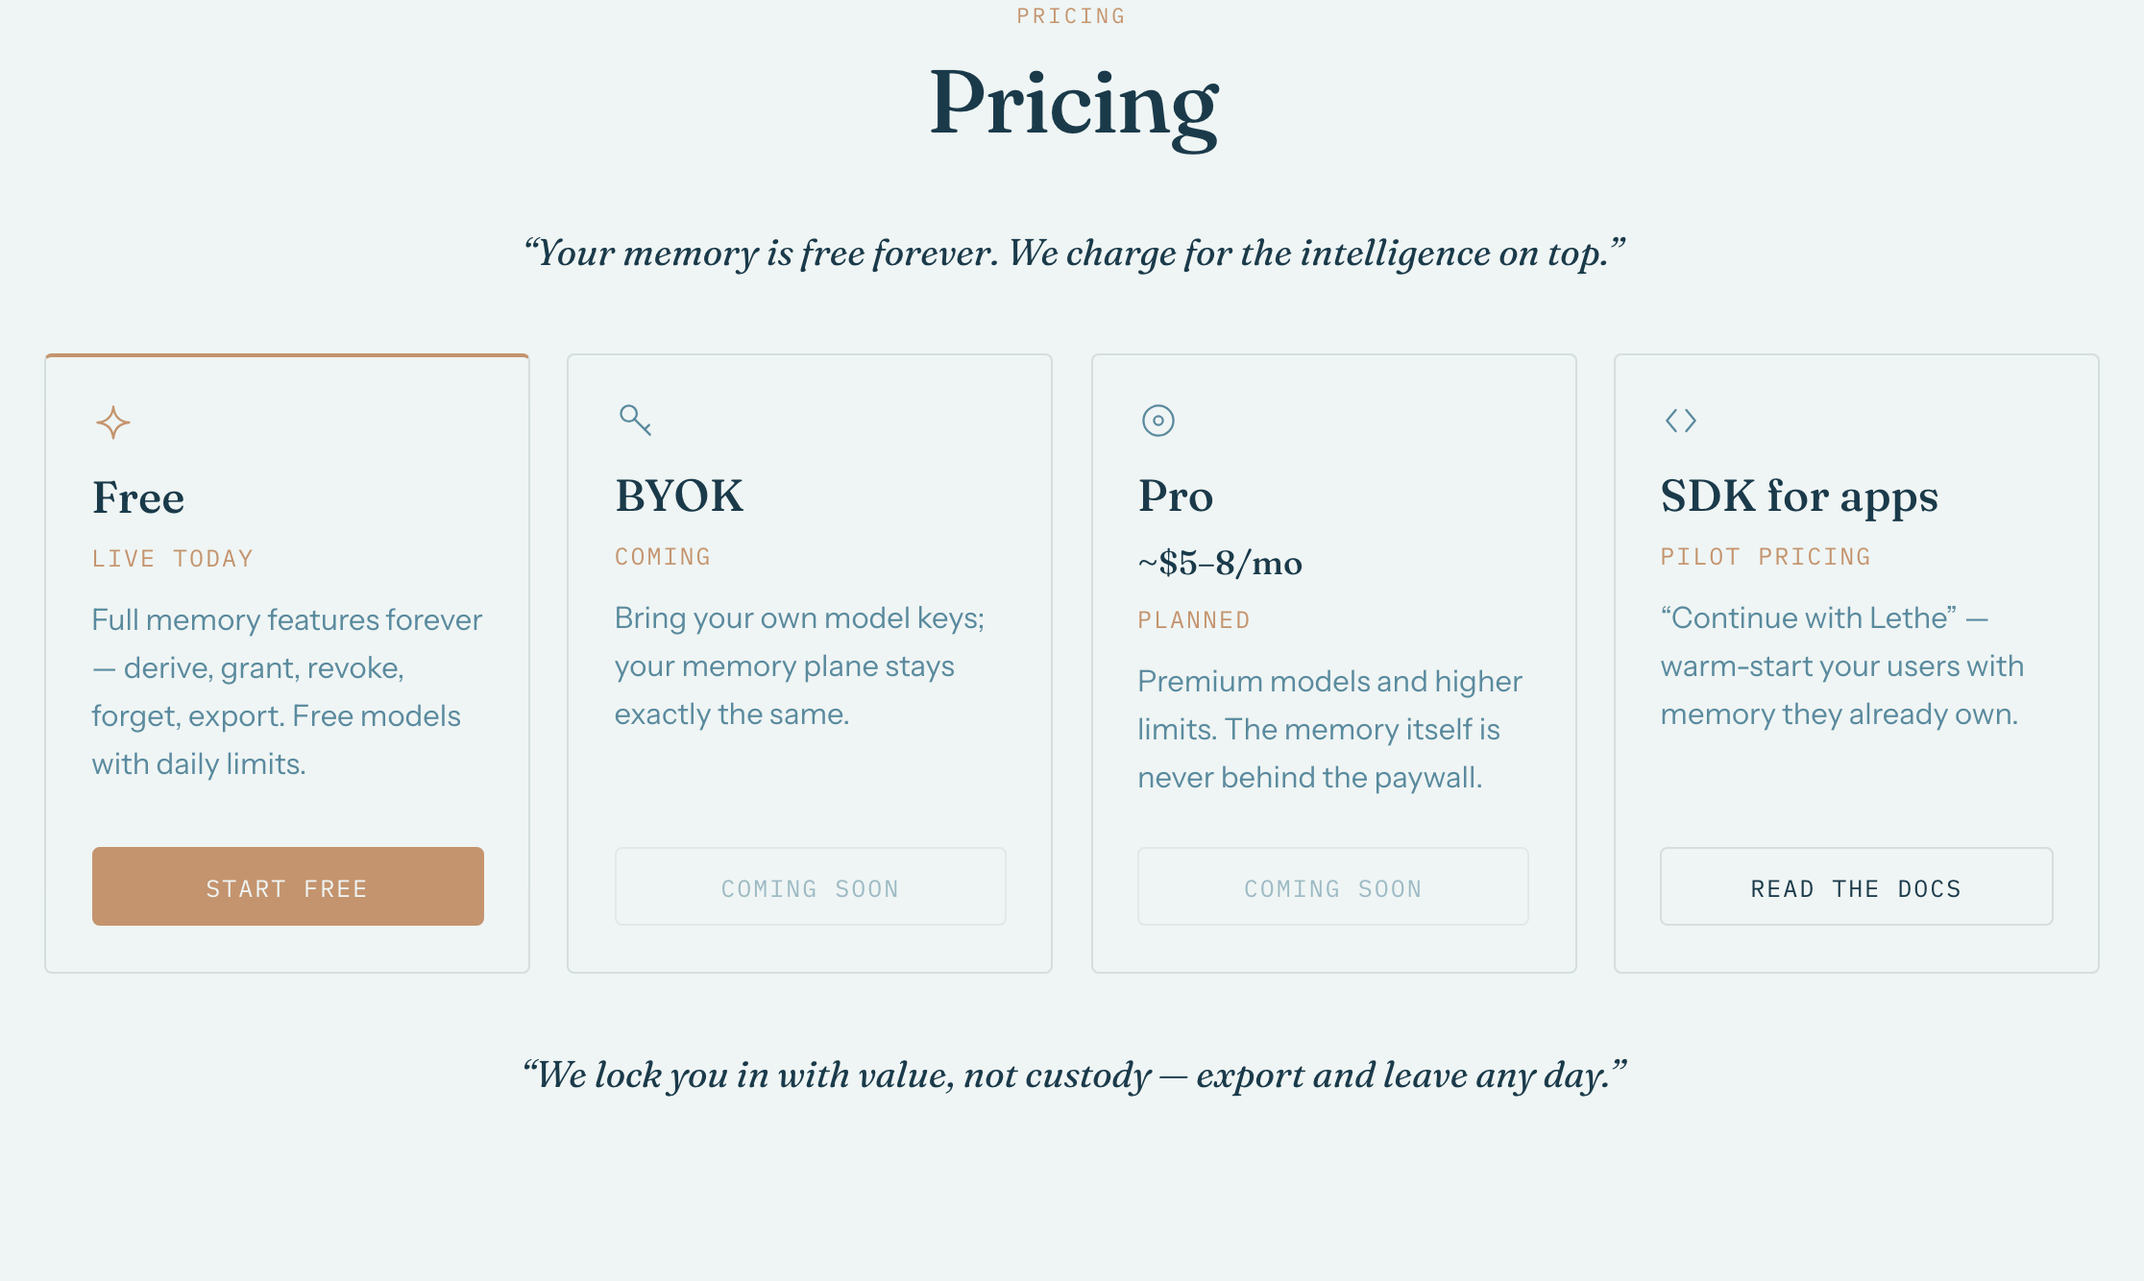
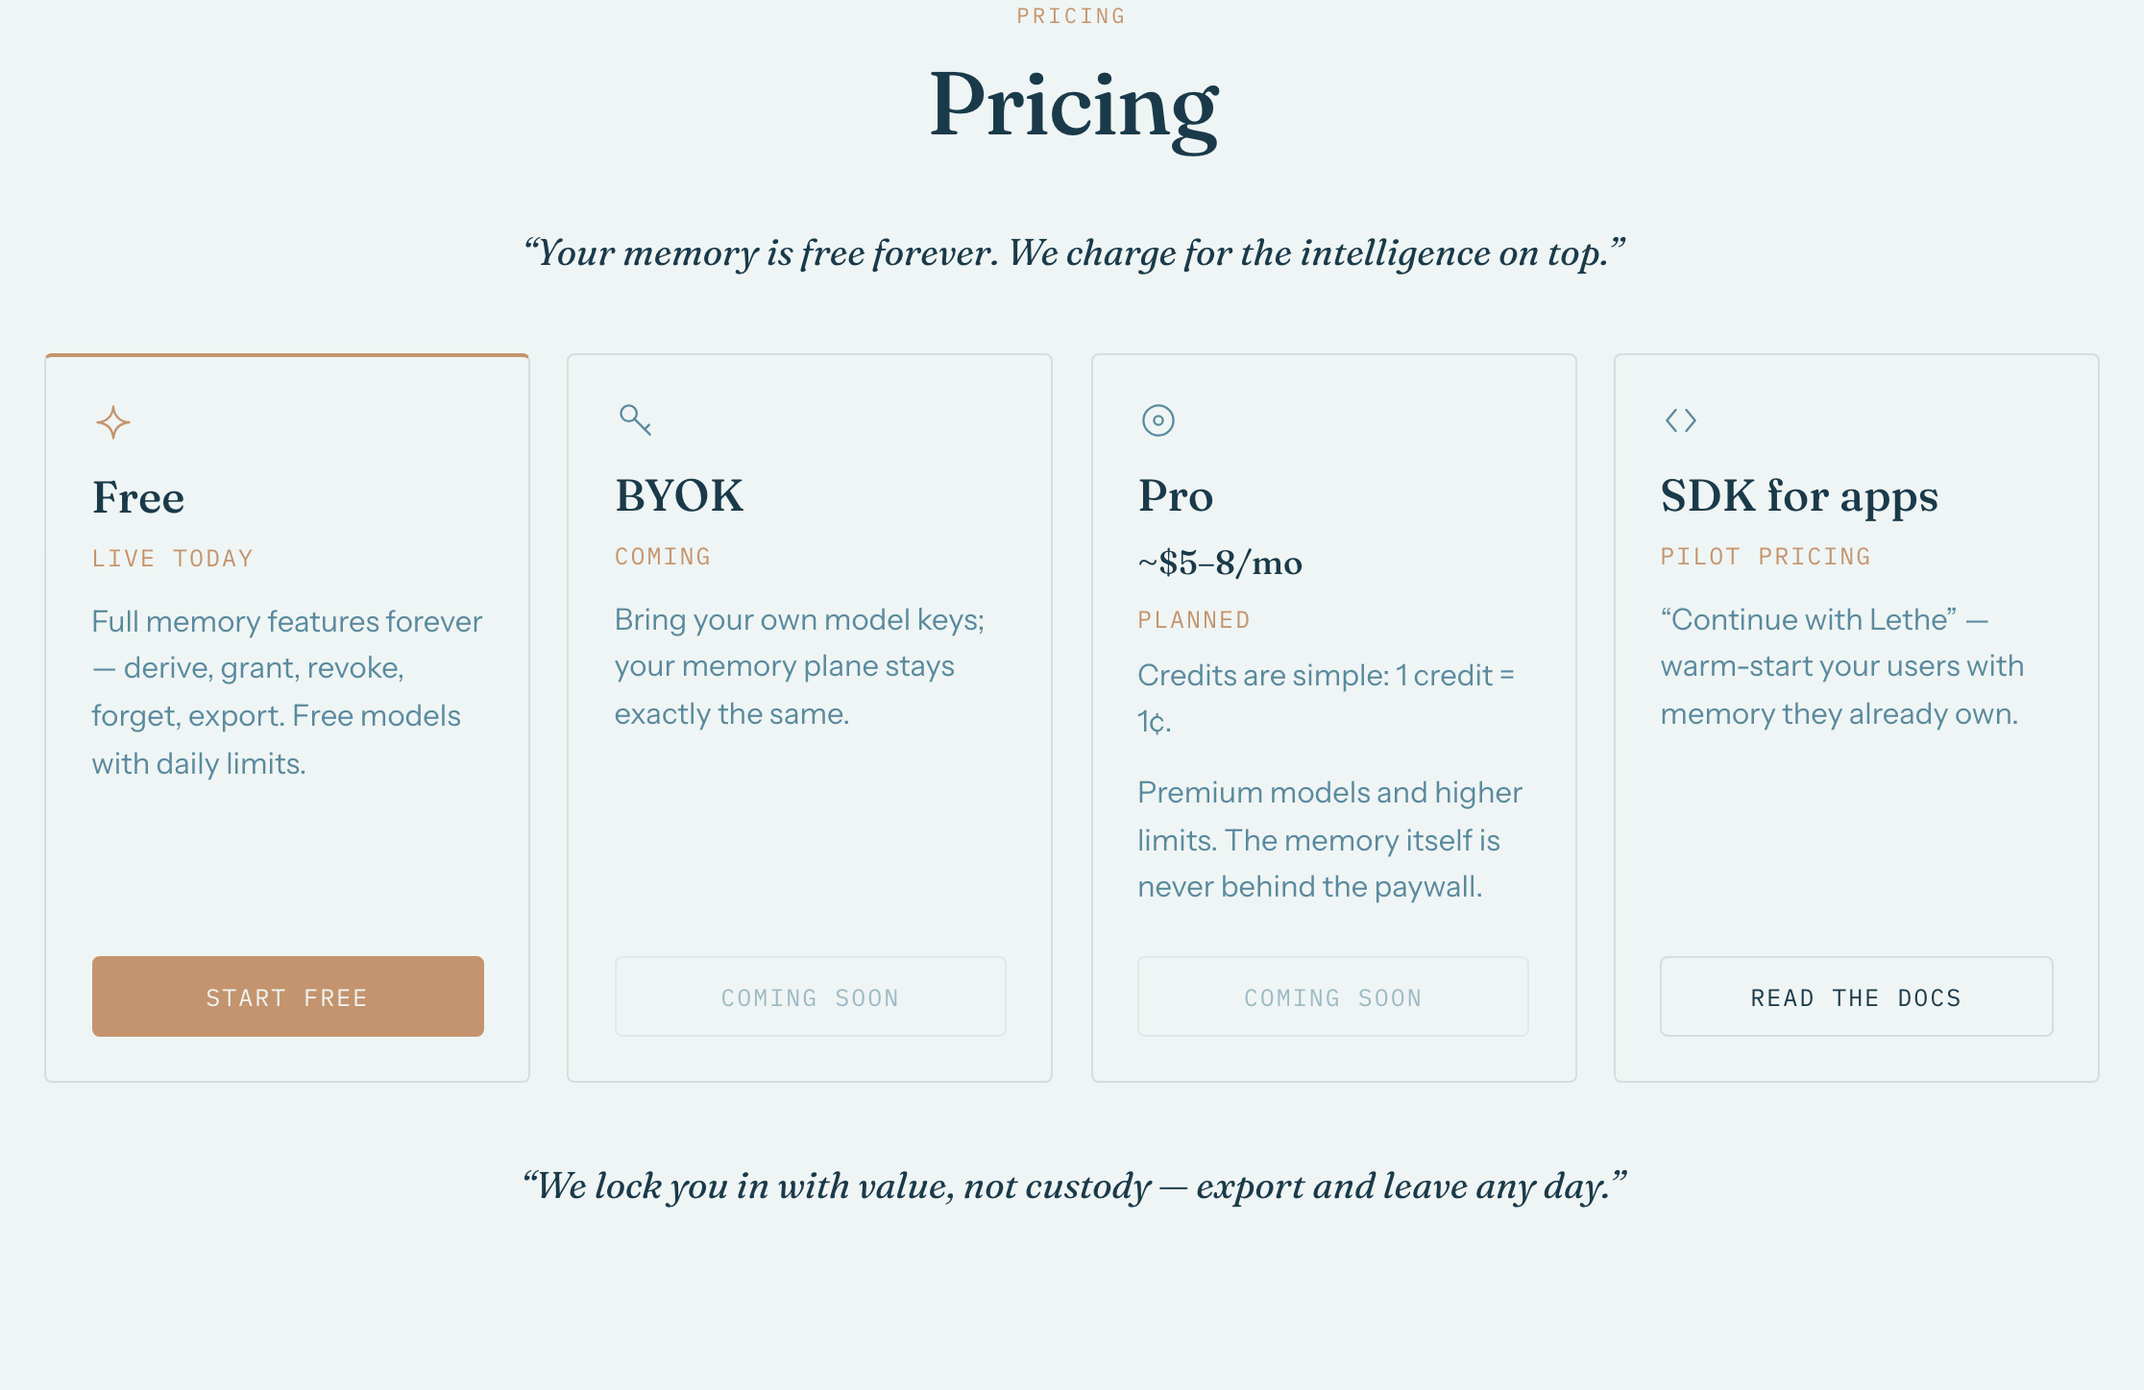
Block 14 (full): rebuild "The loop", Pro credit line, comparison row, stablecoin
Presentation only; product freeze + honesty rule intact. Completes the full
Block 14 brief atop the earlier commit.

P2 The loop: replace unreadable 3-up thumbnails with large vertically-stacked
frames (alternating sides), each with in-brand callouts (Coral dot + leader +
mono chip) on the key moment — selector, rail, verify link, import/export,
briefing, revoke. Captions verbatim; mobile drops callouts to a label list
under the frame (no 390 overflow).

P3 Pricing: add Pro credit line "Credits are simple: 1 credit = 1¢." under the
prominent ~$5-8/mo price (no dup). CTAs/glyphs unchanged.

P5 Comparison: add "Model lock-in" row (tied to platform / vendor cloud /
switch models, memory follows).

P7 Roadmap: add "Pay for Pro in stablecoins — USDC, no card." to the WEDGE ring
(existing lines verbatim, additive).

P6 left the "Why Walrus" thesis text-only by design.

tsc + build green · 8 routes 200 · og/favicon 200 · all Block 9-13 frozen
strings grep=1 on prod · 390+desktop 0 overflow / 0 console errors · reveal
20/20 · reduced-motion instant · CTAs verified · callouts hidden on mobile.

diff --git a/apps/web/app/page.tsx b/apps/web/app/page.tsx
@@ -74,6 +74,7 @@ interface GrowthPhase {
   revenue: React.ReactNode;
   closing?: string;
   sub: string;
+  stable?: string;
   horizon?: string;
   footnote?: string;
   now: boolean;
@@ -125,6 +126,7 @@ const GROWTH: GrowthPhase[] = [
       </>
     ),
     sub: "Mainnet. Seal-gated selective sharing — share one memory, not the vault.",
+    stable: "Pay for Pro in stablecoins — USDC, no card.",
     now: false,
   },
   {
@@ -194,50 +196,106 @@ function GrowthRings({ size = 380 }: { size?: number }) {
 
 
 // The loop, in three frames — real product captures (DEMO_MOCK populated
-// states, representative data only). The landing finally shows the product.
-const FRAMES: { src: string; alt: string; caption: string }[] = [
+// states, representative data only). Stacked large + vertical so the UI text
+// inside is legible, with hairline annotation callouts on the key moment.
+type Callout = { label: string; x: number; y: number; dir: "l" | "r" };
+const FRAMES: { src: string; alt: string; caption: string; callouts: Callout[] }[] = [
   {
     src: "/screens/frame-chat.webp",
     alt: "Lethe chat with the memory rail",
     caption: "/chat — a fact settles into the rail, Seal-encrypted, with live Walrus and Suiscan links.",
+    callouts: [
+      { label: "the fact settles here", x: 75, y: 19, dir: "l" },
+      { label: "model — switch mid-chat", x: 72, y: 6, dir: "l" },
+    ],
   },
   {
     src: "/screens/frame-memory.webp",
     alt: "The /memory ownership surface",
     caption: "/memory — the ownership surface: verify on-chain, import, export, grant, revoke.",
+    callouts: [
+      { label: "import / export", x: 63, y: 86, dir: "l" },
+      { label: "verify on Suiscan ↗", x: 49, y: 94, dir: "r" },
+    ],
   },
   {
     src: "/screens/frame-pulse.webp",
     alt: "Pulse reading the same memory",
     caption: "/pulse — a second app that already knows you. Revoke and it forgets — live.",
+    callouts: [
+      { label: "a second app, your grant", x: 50, y: 30, dir: "r" },
+      { label: "revoke → it forgets", x: 50, y: 91, dir: "r" },
+    ],
   },
 ];
+
+/** One annotation: anchor dot at (x,y) over the frame, short leader line, mono
+ *  Coral tag. Desktop only — on mobile the labels drop to a list under the frame. */
+function FrameCallout({ label, x, y, dir }: Callout) {
+  const toLeft = dir === "l";
+  const dot = <span style={{ width: 7, height: 7, borderRadius: 9999, background: "var(--accent-h)", flexShrink: 0 }} />;
+  const line = <span style={{ width: 26, height: 1, background: "var(--accent-h)", flexShrink: 0 }} />;
+  const tag = (
+    <span
+      className="lethe-id uppercase whitespace-nowrap rounded px-2 py-1"
+      style={{ color: "var(--accent-h)", background: "var(--bg)", border: "1px solid var(--border)", boxShadow: "var(--shadow-ambient)" }}
+    >
+      {label}
+    </span>
+  );
+  return (
+    <div
+      className="absolute z-10 hidden md:flex items-center gap-1.5 pointer-events-none"
+      style={{ left: `${x}%`, top: `${y}%`, transform: `translate(${toLeft ? "-100%" : "0"}, -50%)` }}
+    >
+      {toLeft ? (<>{tag}{line}{dot}</>) : (<>{dot}{line}{tag}</>)}
+    </div>
+  );
+}
 
 function ProductFrames() {
   return (
     <section className="max-w-6xl mx-auto w-full px-6 lethe-section" style={{ paddingTop: 0 }}>
       <div className="lethe-eyebrow">The loop</div>
       <h2 className="lethe-section-head">The loop, in three frames</h2>
-      <div className="mt-10 grid grid-cols-1 lg:grid-cols-3 gap-8">
-        {FRAMES.map((f, i) => (
-          <figure
-            key={f.src}
-            className={`lethe-rise${i === 1 ? " lg:mt-10" : ""}`}
-            data-reveal
-            data-reveal-delay={i * 90}
-          >
-            <div
-              className="rounded border overflow-hidden"
-              style={{ borderColor: "var(--border)", boxShadow: "var(--shadow-ambient)" }}
+      <div className="mt-12 space-y-16 lg:space-y-24">
+        {FRAMES.map((f, i) => {
+          const frameRight = i % 2 === 1;
+          return (
+            <figure
+              key={f.src}
+              className="lethe-rise grid grid-cols-1 lg:grid-cols-12 gap-6 lg:gap-12 items-center"
+              data-reveal
+              data-reveal-delay={i * 90}
             >
-              {/* eslint-disable-next-line @next/next/no-img-element */}
-              <img src={f.src} alt={f.alt} className="w-full h-auto block" loading="lazy" />
-            </div>
-            <figcaption className="mt-3 lethe-body" style={{ color: "var(--text-dim)" }}>
-              {f.caption}
-            </figcaption>
-          </figure>
-        ))}
+              <div className={`relative lg:col-span-8 ${frameRight ? "lg:order-2" : ""}`}>
+                <div
+                  className="rounded border overflow-hidden"
+                  style={{ borderColor: "var(--border)", boxShadow: "var(--shadow-ambient)" }}
+                >
+                  {/* eslint-disable-next-line @next/next/no-img-element */}
+                  <img src={f.src} alt={f.alt} className="w-full h-auto block" loading="lazy" />
+                </div>
+                {f.callouts.map((c) => (
+                  <FrameCallout key={c.label} {...c} />
+                ))}
+              </div>
+              <div className={`lg:col-span-4 ${frameRight ? "lg:order-1" : ""}`}>
+                <figcaption className="lethe-body lethe-measure" style={{ color: "var(--text)" }}>
+                  {f.caption}
+                </figcaption>
+                {/* mobile fallback: callouts as labels under the frame */}
+                <ul className="md:hidden mt-3 space-y-1">
+                  {f.callouts.map((c) => (
+                    <li key={c.label} className="lethe-id uppercase" style={{ color: "var(--accent-h)" }}>
+                      → {c.label}
+                    </li>
+                  ))}
+                </ul>
+              </div>
+            </figure>
+          );
+        })}
       </div>
     </section>
   );
@@ -333,6 +391,7 @@ const COMPARE: { cols: string[]; rows: { axis: string; cells: string[] }[] } = {
     { axis: "Privacy", cells: ["Policy", "Policy", "Cryptographic (Seal, proven)"] },
     { axis: "Portable across apps", cells: ["No", "SDK (vendor cloud)", "Yes — grant/revoke on-chain"] },
     { axis: "Leave with your data", cells: ["Limited", "Export", "Export, one click"] },
+    { axis: "Model lock-in", cells: ["Tied to the platform", "Vendor cloud", "Switch models, memory follows"] },
   ],
 };
 
@@ -541,6 +600,7 @@ export default function Home() {
               tag: "live today",
               price: null as string | null,
               v: "Full memory features forever — derive, grant, revoke, forget, export. Free models with daily limits.",
+              credit: null as string | null,
               live: true,
               glyph: PRICING_GLYPHS.spark,
               cta: { label: "Start free", href: "/chat", disabled: false },
@@ -550,6 +610,7 @@ export default function Home() {
               tag: "coming",
               price: null as string | null,
               v: "Bring your own model keys; your memory plane stays exactly the same.",
+              credit: null as string | null,
               live: false,
               glyph: PRICING_GLYPHS.key,
               cta: { label: "Coming soon", href: "", disabled: true },
@@ -559,6 +620,7 @@ export default function Home() {
               tag: "planned",
               price: "~$5–8/mo",
               v: "Premium models and higher limits. The memory itself is never behind the paywall.",
+              credit: "Credits are simple: 1 credit = 1¢.",
               live: false,
               glyph: PRICING_GLYPHS.ring,
               cta: { label: "Coming soon", href: "", disabled: true },
@@ -568,6 +630,7 @@ export default function Home() {
               tag: "pilot pricing",
               price: null as string | null,
               v: "“Continue with Lethe” — warm-start your users with memory they already own.",
+              credit: null as string | null,
               live: false,
               glyph: PRICING_GLYPHS.bracket,
               cta: { label: "Read the docs", href: "/docs/sdk", disabled: false },
@@ -595,6 +658,9 @@ export default function Home() {
                 </div>
               )}
               <div className="lethe-id uppercase mt-1.5" style={{ color: "var(--accent-h)" }}>{t.tag}</div>
+              {t.credit && (
+                <p className="mt-2 lethe-body" style={{ color: "var(--text-dim)" }}>{t.credit}</p>
+              )}
               <p className="mt-3 lethe-body flex-1" style={{ color: "var(--text-dim)" }}>{t.v}</p>
               {t.cta.disabled ? (
                 <span
@@ -715,6 +781,9 @@ export default function Home() {
                 )}
                 {g.sub && (
                   <p className="mt-3 lethe-body lethe-measure" style={{ color: "var(--text-dim)" }}>{g.sub}</p>
+                )}
+                {g.stable && (
+                  <p className="mt-3 lethe-body lethe-measure" style={{ color: "#5A8A9E" }}>{g.stable}</p>
                 )}
                 {g.horizon && (
                   <p className="mt-3 lethe-body lethe-measure" style={{ color: "#5A8A9E" }}>{g.horizon}</p>

diff --git a/docs/PROGRESS.md b/docs/PROGRESS.md
@@ -1205,3 +1205,28 @@ P5 SPACING. The two outlier gaps (below "The loop, in three frames" → "Why Wal
 GATES: tsc clean · pnpm build GREEN · deploy lethe-5pke6yk5g… → lethe-gold.vercel.app · 8/8 routes 200 · og.png 200 · favicon.ico 200 (2472 B). All Block 9–13 frozen strings grep=1 on served prod (Why Walrus / free forever / export and leave any day / users who come back / four tier names / Venice line "Lethe can't look." / four milestone sentences / verify any line / One unlock away / demand category [=2 on /docs/sdk] / On the horizon… / Impossible without the object model). New content present on prod: "Built on", "How Lethe is different", "Start free", "Read the docs", "Coming soon". 390px + desktop: 0 horizontal overflow, 0 console errors, reveal 20/20, prefers-reduced-motion instant (reveal-ready unset, all visible), #roadmap + #pricing resolve, Free→/chat + SDK→/docs/sdk live, BYOK/Pro disabled (aria-disabled, not anchors). After-captures: design/screens/prod/landing-{desktop,mobile}.png + pricing-{desktop,mobile}.png.
 Blockers: none.
 === END REPORT ===
+
+## 2026-06-14 — BLOCK 14 (FULL): "looks like a real product" — supersedes the earlier Block 14
+
+=== BLOCK 14 (FULL) REPORT ===
+Builds on the earlier Block 14 commit; this entry covers the FULL brief. Presentation only, product-behavior freeze intact, no new routes/deps, no changes to frozen strings. Honesty rule honored: no payment/partner logos Lethe doesn't use, no counts/testimonials; CTAs do-what-they-say or are visibly disabled; only real infra marks (Sui/Walrus/Seal/Enoki). Main file: app/page.tsx (loop rebuild + pricing credit line + comparison row + stablecoin ring line), atop the favicon/metadata/built-on/spacing work already shipped in the earlier Block 14 commit.
+
+P1 OG + FAVICON (from the earlier commit, still live). BEFORE: favicon.ico was the create-next-app DEFAULT (25931 B); OG already in-brand. NOW: favicon.ico regenerated from the monogram (PNG-in-ICO 16/32/48, 2472 B) + apple-icon.png 180×180; SVG favicon kept; metadata has title template, openGraph url/siteName/image dims, twitter summary_large_image; per-page titles (Home / Chat / Your Memory / Pulse / Docs). GATE (prod): og:image + twitter:card + 3 favicon links in view-source; /og.png 200; /favicon.ico 200 (2472 B, not default).
+
+P2 "THE LOOP" REBUILT (core fix — the 3-up thumbnails were unreadable). Replaced the small 3-up grid with the three product shots stacked VERTICALLY in a 12-col layout (frame 8 / caption 4) that ALTERNATES side per frame (left→right→left) for rhythm; frames ~66% width keep the 1200×750 captures legible; hairline + ambient-shadow chrome, space-y-16/24. Each frame carries 1–2 in-brand CALLOUTS — Coral anchor dot + 26px leader line + mono-uppercase Fog chip — over the key moment: /chat "the fact settles here" (rail) + "model — switch mid-chat" (selector); /memory "import / export" + "verify on Suiscan ↗"; /pulse "a second app, your grant" (briefing) + "revoke → it forgets". Captions kept VERBATIM, scroll-reveal per frame (90ms stagger). MOBILE (<768): overlay callouts hidden (hidden md:flex), dropped to a "→ label" list under the caption — verified 0 overflow at 390. Current public/screens/* (1200×750 @2×) legible enough enlarged → no re-capture; DEMO MOCK representative data only.
+
+P3 PRICING (copy unchanged; restyle + CTAs from earlier commit + NEW credit line). Per-card hairline glyph (spark/key/ring/bracket), hierarchy glyph→name→price→tag→desc→CTA pinned bottom, equal heights. Honest CTAs: Free "Start free"→/chat (solid Coral), SDK "Read the docs"→/docs/sdk (outline), BYOK+Pro "Coming soon" (muted, aria-disabled, NOT links). NEW: Pro surfaces the credit model — a small Mist body line "Credits are simple: 1 credit = 1¢." under the prominent "~$5–8/mo" price (price stays out of the tag). De-dup: I render the credit sentence WITHOUT repeating "Pro ~$5–8/mo" since the price line already shows it. Free keeps its 2px Coral top hairline. Mobile: stack, CTAs full-width.
+
+P4 "BUILT ON" strip (from earlier commit). Below the hero: mono "BUILT ON" eyebrow + hairline-separated row — Sui + Walrus official SVG marks (grayscale) + Seal + Enoki in-brand wordmarks (no standalone SVG marks exist → wordmark fallback). Links: Sui→Suiscan vault, Walrus→a real aggregator blob, Seal→/docs/security, Enoki→/docs/concepts. Colophon's old "Built on Sui · Stored on Walrus" line removed (consolidated). SHIPPED: 2 SVG marks + 2 wordmarks.
+
+P5 COMPARISON "How Lethe is different" (below pricing). Factual hairline table, mono headers, .lethe-body cells, competitors in Mist, Coral-accented Lethe column. Rows now FIVE per the full brief: Who owns the memory / Privacy / Portable across apps / Leave with your data + NEW "Model lock-in" (Tied to the platform · Vendor cloud · Switch models, memory follows). overflow-x-auto (min-width 600) → scrolls in its own box on mobile, never the page.
+
+P6 "WHY WALRUS" thesis left TEXT-ONLY (no logos) — recorded so a later pass doesn't "fill" it.
+
+P7 ROADMAP stablecoin line. Added ONE line to growth-map PHASE 1 (THE WEDGE), existing Mist sub-line style: "Pay for Pro in stablecoins — USDC, no card." All existing ring lines kept verbatim; additive only.
+
+P8 SPACING (from earlier commit). Removed the two body dividers (below frames, below pull quote) + zeroed the following sections' top padding → uniform 6rem rhythm; hero-region water divider kept.
+
+GATES: tsc clean · pnpm build GREEN · deploy lethe-5bn1gk22k… → lethe-gold.vercel.app · 8/8 routes 200 · og.png 200 · favicon.ico 200 (2472 B). All Block 9–13 frozen strings grep=1 on served prod (incl. the three frame captions still verbatim). New content present: "The loop, in three frames", "Built on", "How Lethe is different", "Model lock-in", "Switch models, memory follows", "Credits are simple: 1 credit = 1¢.", "Pay for Pro in stablecoins — USDC, no card.", Start free / Read the docs / Coming soon. 390px + desktop: 0 horizontal overflow, 0 console errors, reveal 20/20, prefers-reduced-motion instant, #roadmap + #pricing resolve; Free→/chat + SDK→/docs/sdk live, BYOK/Pro aria-disabled (not anchors); frame callouts hidden on 390 (dropped to label list), 0 overflow. After-captures: design/screens/prod/{landing,pricing,loop,builton}-{desktop,mobile}.png.
+Blockers: none.
+=== END REPORT ===
